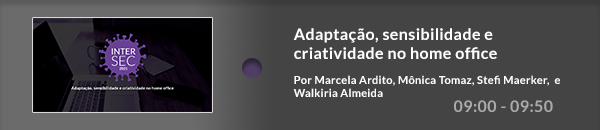
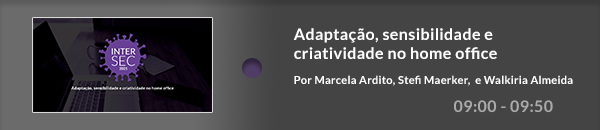
Remove Monica Tomaz

Changed region(s): [[0.66, 0.5846, 0.96, 0.6462], [0.48, 0.6769, 0.66, 0.7692]]

diff --git a/intersec.html b/intersec.html
@@ -115,7 +115,7 @@
 			</div>
 			<div class="textopalestra">
 			<a href="https://www.sympla.com.br/adaptacao-sensibilidade-e-criatividade-no-home-office__1196886"><h3>Adaptação, sensibilidade e criatividade no home office</h3></a>
-			<p>Por Marcela Ardito, Mônica Tomaz, Stefi Maerker e Walkiria Almeida</p>
+			<p>Por Marcela Ardito, Stefi Maerker e Walkiria Almeida</p>
 			<p class="horario">09:00 - 09:50</p>
 				<a href="https://www.sympla.com.br/adaptacao-sensibilidade-e-criatividade-no-home-office__1196886" class="inscrevase"></a>
 			</div>
